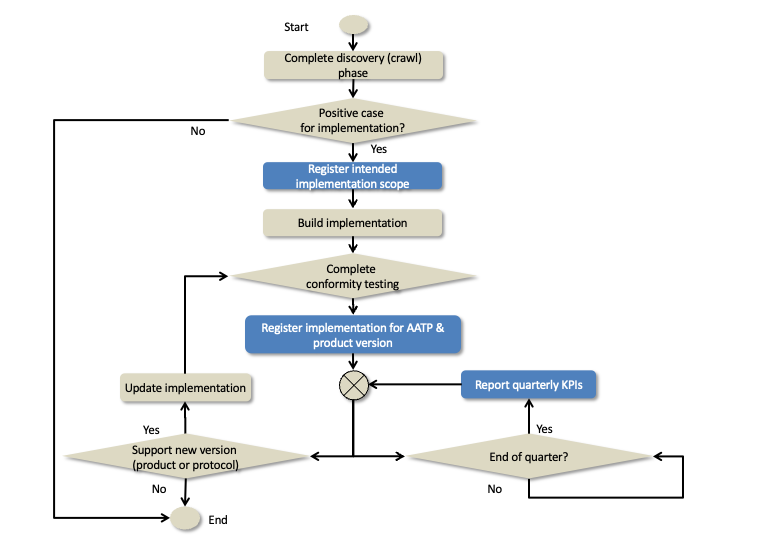
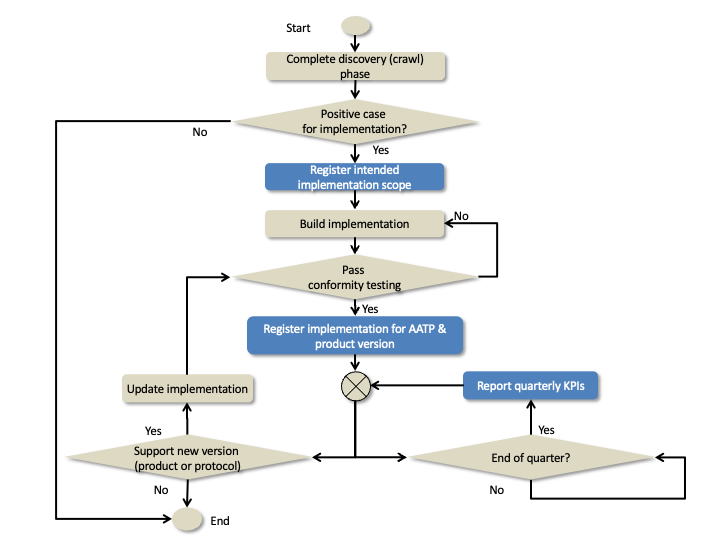
complete governance page first draft

Changed region(s): [[0.0615, 0.0295, 0.9525, 1.0]]

diff --git a/website/docs/about/Governance.md b/website/docs/about/Governance.md
@@ -9,39 +9,39 @@ import Disclaimer from '../\_disclaimer.mdx';
 
 A high quality governance framework provides implementers with confidence that AATP
 
-* is a public good that connot be captured by any specific commercial interest and is free to use without license constraints
-* is developed via a consensus based process that ensures it will meet the needs of the Australian Agricuture sector 
-* is specific, testable, and regorously versioned so that implementers can be confident of stability and interoperability
+* is a public good that cannot be captured by any specific commercial interest and is free to use without license constraints
+* is developed via a consensus based process that ensures it will meet the needs of the Australian Agriculture sector 
+* is specific, testable, and rigorously versioned so that implementers can be confident of stability and interoperability
 * is compatible with relevant national and international standards and regulations. 
 
-The governance framework described on this page is desiged to meet these criteria.  
+The governance framework described on this page is designed to meet these criteria.  
 
 ## Governance Structure
 
-The AATP is governed under the Australian Agrocultural Traaceability Governance Group ([AATTG](https://www.agriculture.gov.au/biosecurity-trade/market-access-trade/alliance-2022/australian-agricultural-traceability-governance-group)) within the Data Standards Working Group (DSWG). To ensure that AATG acheives it's purpose, formal liason with other AATTG groups is required.
+The AATP is governed under the Australian Agricultural Traceability Governance Group ([AATTG](https://www.agriculture.gov.au/biosecurity-trade/market-access-trade/alliance-2022/australian-agricultural-traceability-governance-group)) within the Data Standards Working Group (DSWG). To ensure that AATG achieves it's purpose, formal liaison with other AATTG groups is required.
 
-* The Strategic Reference Group (SRG) to ensure that AATP continues to meet expectations and alignes with overall AATTG strategy.
-* The Assuring Sustainability Claims Working Group (ASCWG) to ensure that AATP conformity claims and credentials meet integrity and confomrmance requirements.
-* The Research and Development Working Group (R&DWG) to ensure that AATP consinues to apply best practice technical standards and norms.
+* The Strategic Reference Group (SRG) to ensure that AATP continues to meet expectations and aligns with overall AATTG strategy.
+* The Assuring Sustainability Claims Working Group (ASCWG) to ensure that AATP conformity claims and credentials meet integrity and conformance requirements.
+* The Research and Development Working Group (R&DWG) to ensure that AATP continues to apply best practice technical standards and norms.
 
-The AATP secretariat serivces, like the DSWG secretariat, are provided by the [Food Agility CRC](https://www.foodagility.com/). 
+The AATP secretariat services, like the DSWG secretariat, are provided by the [Food Agility CRC](https://www.foodagility.com/). 
 
 ![Structural Overview](Governance_organisation.png)
 
-The AATP recodgnises that different agricultural sectors will have different requirements for commodity specific data. The bovine characteristics of cattle are of course very different to the product characteristics of grain. Nevertheless there are many common core data elements that can be re-used by each sector. Accordingly AATP defines a common re-usable core (aatp-core) as well as sector specific credentials such as a digital livestock passport. Furthermore, it is important to facilitate agility for sector specific specifications as well as stability for core components. For this reason AATP is govered at two layers that weork at different pace.
+The AATP recognises that different agricultural sectors will have different requirements for commodity specific data. The bovine characteristics of cattle are of course very different to the product characteristics of grain. Nevertheless there are many common core data elements that can be re-used by each sector. Accordingly AATP defines a common re-usable core (aatp-core) as well as sector specific credentials such as a digital livestock passport. Furthermore, it is important to facilitate agility for sector specific specifications as well as stability for core components. For this reason AATP is governed at two layers that work at different pace.
 
 * Sector specific teams with appropriate industry representation can develop and maintain their sector specific AATP extensions without constraint so long as the extensions apply the AATP extensions methodology and thereby retain cross-sector interoperability.
-* From time to time, new common cross-sector needs will be identified that will require an extension to the aatp core standards. These changes are goverened by the DSWG and released less frequently.
+* From time to time, new common cross-sector needs will be identified that will require an extension to the aatp core standards. These changes are governed by the DSWG and released less frequently.
 
-Membership of the sector sepcific development teams is determined by the industry associations that are voting members of the sector specific stewards. The sector specific stewards are, in turn appointed by the DSWG under AATTG national rules.
+Membership of the sector specific development teams is determined by the industry associations that are voting members of the sector specific stewards. The sector specific stewards are, in turn appointed by the DSWG under AATTG national rules.
 
 Like any other working group, change is agreed by consensus. Ideally consensus is unanimous within a team but, when there are dissenting votes, a simple majority vote applies. 
 
 ## Data Governance Scope
 
-AATP is an extension of UNTP which is itself built on the W3C Verifiable Credentials Data Model (VCDM). Each of these layers define data models and a vocabulary that is protected. This means that UNTP must re-use and not re-define VCDM data elements such as "issuer" (party) and "validFrom" (date). UNTP in turn defines a suite of credential types such as a Digital Product Passport (DPP), Digital Conformity Credential (DCC), Digital Traceability Event (DTE) and Digital Facility Record (DFR) that are all represented as W3C Verifiable Credentials. UNTP is built using data elements defined by UN/CEFACT, Schema.org, GS1 and some global suystainability standards.  
+AATP is an extension of UNTP which is itself built on the W3C Verifiable Credentials Data Model (VCDM). Each of these layers define data models and a vocabulary that is protected. This means that UNTP must re-use and not re-define VCDM data elements such as "issuer" (party) and "validFrom" (date). UNTP in turn defines a suite of credential types such as a Digital Product Passport (DPP), Digital Conformity Credential (DCC), Digital Traceability Event (DTE) and Digital Facility Record (DFR) that are all represented as W3C Verifiable Credentials. UNTP is built using data elements defined by UN/CEFACT, Schema.org, GS1 and some global sustainability standards.  
 
-As a conforming UNTP extension, AATP must also re-use and not re-define all UNTP data elements so that AATP credential retain their cross-industry and cross-border interoperability. Therefore the data governance scope of AATP is to define data elements needed for Agricultral traceability and transparnecy that are not already defined by UNTP. However there are several existing agriculture specific international or national vocabularies such as the [codex alimetarius](https://www.fao.org/fao-who-codexalimentarius/en/) from the UN Food and Acriculture Organisaiton (FAO) or national standards such as the [bovine language guidelines](https://www.beefcentral.com/wp-content/uploads/2023/02/national-livestock-guidelines-2022-web_final_291122.pdf) from Meat & Livestock Australia. 
+As a conforming UNTP extension, AATP must also re-use and not re-define all UNTP data elements so that AATP credential retain their cross-industry and cross-border interoperability. Therefore the data governance scope of AATP is to define data elements needed for Agricultural traceability and transparency that are not already defined by UNTP. However there are several existing agriculture specific international or national vocabularies such as the [codex alimetarius](https://www.fao.org/fao-who-codexalimentarius/en/) from the UN Food and Agriculture Organisation (FAO) or national standards such as the [bovine language guidelines](https://www.beefcentral.com/wp-content/uploads/2023/02/national-livestock-guidelines-2022-web_final_291122.pdf) from Meat & Livestock Australia. 
 
 ![Data governance scope](Governance_data.png)
 
@@ -63,15 +63,15 @@ All changes to AATP vocabularies, schema, and context files will follow a consis
 
 ![Development Process](Governance_process.png)
 
-The process ensures that no artefacts are released to production unless they are tested and approved. The process also provides for faster releases when there is no requirement to change AATP core vocabularies. 
+The process ensures that no artifacts are released to production unless they are tested and approved. The process also provides for faster releases when there is no requirement to change AATP core vocabularies. 
 
 ### Version Management
 
-All AATP artefacts are rigorously versioned following [semver](https://semver.org/) best practices. 
+All AATP artifacts are rigorously versioned following [semver](https://semver.org/) best practices. 
 
-* Version numbers are idicated as a dot-separated triple {major}.{minor}.{patch}.  For example version 2.3.4.
-* {patch} version number increments indicate non-breaking bug fixes that do not add new capabilites of features. For example, implementers should see no difference between version 1.4.5 and version 1.4.6.
-* {minor} version number increements indicate non-breaking enhancements. For example, implementations of version 1.4.5 are still compatible with version 1.5.0 but may not take advantage of new features.
+* Version numbers are indicated as a dot-separated triple {major}.{minor}.{patch}.  For example version 2.3.4.
+* {patch} version number increments indicate non-breaking bug fixes that do not add new capabilities of features. For example, implementers should see no difference between version 1.4.5 and version 1.4.6.
+* {minor} version number increments indicate non-breaking enhancements. For example, implementations of version 1.4.5 are still compatible with version 1.5.0 but may not take advantage of new features.
 * {major} version number increments indicate significant and breaking releases. For example implementations of version 1.5.0 will be incompatible with version 2.0.0 and may fail in unpredictable ways.
 
 ### Release Management
@@ -90,24 +90,44 @@ Allowed domains are `aatp-core`, `livestock`, `horticulture`, `grains`.  More do
 
 ## Development Tooling
 
-AATP has a complex set of dependencies, includes a rich set of versioned technical artifacts, and must follow a rigorous and collaborative development process. High qulity tooling is essential to support AATP governance.  The tooling includes
+AATP has a complex set of dependencies, includes a rich set of versioned technical artifacts, and must follow a rigorous and collaborative development process. High quality tooling is essential to support AATP governance.  The tooling includes
 
-* **Data Modeling** [Jargon](https://jargon.sh/user/aatp) data modeling tool provides business domain expert in AATP development working groups and teams with a tool for developing logical data models and vocabularies that requires relatively little technical expertise. Complex physical artefacts such as JSON schema, JSON-LD context files, and RDF vocabularies are all generated from the Jargon tool using built-in transformation rules. Jargon also provides an easy way to map AATP models to existing external vocabularies.
-* **Delivery Management** [GitHub](https://github.com/) is the worlds most popular open source development platform. It provides version controlled content management, project management, release workflows, and many more features.  It is at the heart of AATP governance. Jargon generated artifacts such as livestock passport schema are pushed to github and then gihub release workflows are used to publish the AATP artefacts.
-* **Publication** Modern digital standards including all data element definitions must be published to permanent, referencable and highly available web locations. The Amazon Cloud [S3 Service](https://aws.amazon.com/s3/) provides an effective and low cost solution which is also used by the UNTP.  Github workflows will automatically publish new releases to AATP test and/or production hosting locations.
-* **Implementation Support** requires a helpdesk management system (implemented using [Jira](https://www.atlassian.com/software/jira)) as well as a suite of references implementations and test services - which are built from open source code in Github and deployed to Amazon infrastructure. Feedback and experience from actual implementations provide valuable imput to close the loop back to the start for the next release of AATP.
-* **AATP Public Engagement** is achieved using a website that is generated from content management in Github and presented for easy navigation using [docusaurus](https://docusaurus.io/)
+* **Data Modeling** [Jargon](https://jargon.sh/user/aatp) data modeling tool provides business domain expert in AATP development working groups and teams with a tool for developing logical data models and vocabularies that requires relatively little technical expertise. Complex physical artifacts such as JSON schema, JSON-LD context files, and RDF vocabularies are all generated from the Jargon tool using built-in transformation rules. Jargon also provides an easy way to map AATP models to existing external vocabularies.
+* **Delivery Management** [GitHub](https://github.com/FACRC-AgTrace/AATP) is the worlds most popular open source development platform. It provides version controlled content management, project management, release workflows, and many more features.  It is at the heart of AATP governance. Jargon generated artifacts such as livestock passport schema are pushed to GitHub and then GitHub release workflows are used to publish the AATP artifacts.
+* **Publication** Modern digital standards including all data element definitions must be published to permanent and highly available web locations. The Amazon Cloud [S3 Service](https://aws.amazon.com/s3/) provides an effective and low cost solution which is also used by the UNTP.  GitHub workflows will automatically publish new releases to AATP test and/or production hosting locations.
+* **Implementation Support** requires a help-desk management system (implemented using [Jira](https://www.atlassian.com/software/jira)) as well as a suite of references implementations and test services - which are built from open source code in GitHub and deployed to Amazon infrastructure. Feedback and experience from actual implementations provide valuable input to close the loop back to the start for the next release of AATP.
+* **AATP Public Engagement** is achieved using a website that is generated from content management in GitHub and presented for easy navigation using [docusaurus](https://docusaurus.io/)
 
 ![Governance Tooling](Governance_tooling.png)
 
-This collection of tooling provides AATP with a low cost and highly effective mechanism for long term goverrnance.  
+This collection of tooling provides AATP with a low cost and highly effective mechanism for long term governance.  
 
-## Imnplementation Conformity Scope
+## Implementation Conformity Scope
 
+Governance applies not only to the development of AATP itself but also to the ecosystem of AATP implementers. A Livestock passport issued from a farm system should be discoverable and readable by a processor system without any specific system to system testing. To achieve such interoperability, AATP must provide a comprehensive conformity testing service that can provide confidence that, once any system has successfully completed testing, it will produce artifacts that are interoperable with any other system. 
+
+Interoperability depends not only on well tested conformant implementations but also only alignment in the scope of what has been implemented. There are several AATP credential types and each may transition through multiple major versions. Maximum interoperability is achieved when both an issuing system and a verifier system support the same credential type major version - such as a digital livestock passport v1.0. However, even when two implementers do not support the same credential type & version, there are still some valuable fallback:
+
+* if both credentials (eg livestock passport v2 and horticulture passport v1) are built on the same underlying UNTP credential such as the digital product passport v1 - then there will still be a useful level of interoperability even if the specific extended attributes are not processable.
+* even when a verifier party has zero technical implementation or total misalignment between technical implementations, the credentials are still human readable and so can still be manually processed. 
+
+The diagram shows the different role types in a typical AATP implementation and which credential types they would be likely to implement. There are four roles.
+
+* The conformity assessment body (CAB) is the simplest one. A CAB issues credentials such as emissions or deforestation credentials to producers or manufacturers.  There is likely to be a wide variety of conformity credential types but all will follow the same interoperable UNTP Digital Conformity Credential core. The conformity credentials are issued to producers or manufacturers who may publish them together with their own issued credentials.
+* Registry operators will issue identity credentials to their members (typically the producers and manufacturers) in much the same way that CABs issue conformity credentials. Registry operators must also operate a link resolver service which, given a registered identifier (eg a GTIN) will return a list of links to further information about the identifier.  The links may point to data hosted by the register but more often will redirect to data (such as digital passports) hosted by the producer / manufacturer.
+* Producers and manufacturers (processors) are issuers of product credentials, facility credentials, and traceability events. These credentials should also be published and linked to the corresponding product or facility identifiers (eg NLIS or PIC) using a link resolver service. The conformity credentials and identity credentials provided by CABs and registers may also be published and linked to the same product or facility identifiers.
+* Finally verifiers will resolve product and facility identifiers to retrieve a bundle of related credentials and then will verify the collection of related credentials against a set of business rules. Some of the business rules will be common across all verifiers and therefore may be bundled as AATP standard executable rules.
 
 ![Conformity Scope](Governance_implementation.png)
 
-## Implementation Confomrity Process
+## Implementation Conformity Process
+
+Implementers will follow a structured process to achieve and maintain AATP conformance - as indicated in the workflow diagram below and described in detail in the [implementation guidance](../tools-and-support) pages.
+
+* Once satisfied that there is a positive case for implementation (please refer to the [business case](../business-case) section of this website) then implementers are encouraged to publish their intent to implement the AATP following the process outlined in the [implementation register](../implementations).
+* Once an implementation has completed build and has passed [conformity testing](../tools-and-support/TestService.md) then the implementer should update their entry on the AATP implementers register accordingly. At this point the maintenance life-cycle commences which includes
+  * Re-testing and updating the implementation register when either the implementer software product major version or supported AATP credential major/minor version changes.
+  * providing simple high-level and de-personalised quarterly reports to the AATP secretariat against KPIs defined in the [value assessment](../business-case/ValueAssessment.md) page. 
 
 ![Conformity Process](Governance_conformity.png)
 
